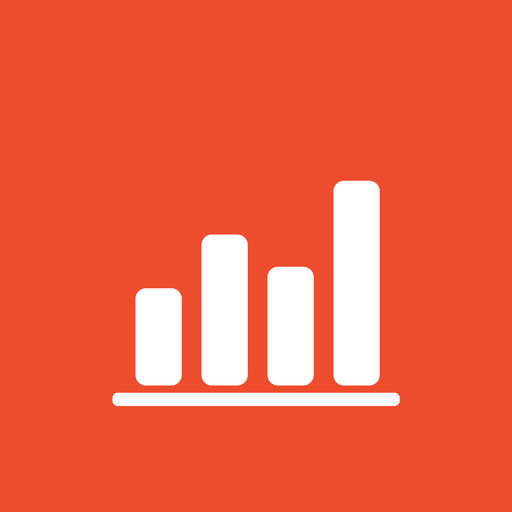
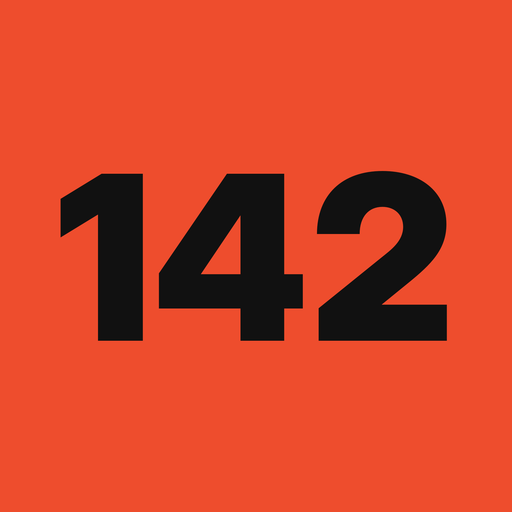
App: ícone 142 (preto no laranja), nome HUB 142 e instalação antes de abrir o painel
Claude-Session: https://claude.ai/code/session_01382THvYi57VtiBKe1yBtGY

Changed region(s): [[0.0938, 0.3125, 0.875, 0.8125]]

diff --git a/app/index.html b/app/index.html
@@ -3,11 +3,11 @@
 <head>
 <meta charset="utf-8">
 <meta name="viewport" content="width=device-width, initial-scale=1, viewport-fit=cover">
-<title>Painel HUB</title>
+<title>HUB 142</title>
 <meta name="theme-color" content="#111318">
 <meta name="apple-mobile-web-app-capable" content="yes">
 <meta name="mobile-web-app-capable" content="yes">
-<meta name="apple-mobile-web-app-title" content="Painel HUB">
+<meta name="apple-mobile-web-app-title" content="HUB 142">
 <meta name="apple-mobile-web-app-status-bar-style" content="black-translucent">
 <link rel="manifest" href="manifest.webmanifest">
 <link rel="apple-touch-icon" href="apple-touch-icon.png">
@@ -42,7 +42,7 @@
 
 <div id="tela">
   <div class="box">
-    <div class="logo"><img src="apple-touch-icon.png" alt=""><div><h1>Painel HUB</h1><div class="sub">Equipe &amp; Gestão · aplicativo</div></div></div>
+    <div class="logo"><img src="apple-touch-icon.png" alt=""><div><h1>HUB 142</h1><div class="sub">Equipe &amp; Gestão · aplicativo</div></div></div>
     <div id="passoLink">
       <p>Cole o <b>link do painel</b> (o link <b>/exec</b> da implantação do Apps Script). Ele fica guardado só neste aparelho.</p>
       <label for="link">Link do painel</label>
@@ -53,7 +53,7 @@
     <div id="passoInstalar" hidden>
       <p class="ok">✓ Link guardado.</p>
       <p id="dica"></p>
-      <button class="pri" id="continuar">Abrir o painel agora</button>
+      <button class="sec" id="continuar">Só abrir o painel (sem instalar)</button>
     </div>
     <button class="sec" id="trocar" hidden>Trocar o link</button>
     <button class="sec" id="fora" hidden>Abrir no navegador</button>
@@ -91,7 +91,8 @@
   var q = new URLSearchParams(location.search);
   if (q.get('u') && valido(q.get('u'))) guardar(CHAVE, q.get('u').trim());
   if (q.has('config')) { telaLink(); }
-  else if (ler(CHAVE)) { abrir(ler(CHAVE)); }
+  else if (ler(CHAVE) && instalado) { abrir(ler(CHAVE)); }
+  else if (ler(CHAVE)) { telaInstalar(); } // no Safari/Chrome (ainda não instalado): mostra como instalar, sem sair desta página
   else { telaLink(); }
 
   $('salvar').onclick = function () {
@@ -99,12 +100,17 @@
     if (!valido(u)) { $('erro').textContent = 'Esse não parece o link do painel. Ele começa com https://script.google.com/ e termina em /exec.'; return; }
     guardar(CHAVE, u);
     if (instalado) { abrir(u); return; }
-    $('passoLink').hidden = true; $('passoInstalar').hidden = false;
-    $('dica').innerHTML = ios
-      ? 'Agora instale no iPhone: toque em <b>Compartilhar</b> (quadrado com seta) › <b>Adicionar à Tela de Início</b> › <b>Adicionar</b>. Depois abra pelo ícone <b>Painel HUB</b>.'
-      : 'Agora instale: no Chrome, toque no menu <b>⋮</b> › <b>Instalar app</b> (ou <b>Adicionar à tela inicial</b>). Depois abra pelo ícone <b>Painel HUB</b>.';
-    history.replaceState(null, '', location.pathname + '?u=' + encodeURIComponent(u));
+    telaInstalar();
   };
+  function telaInstalar() {
+    var u = ler(CHAVE);
+    $('passoLink').hidden = true; $('passoInstalar').hidden = false; $('trocar').hidden = false; $('fora').hidden = true;
+    $('dica').innerHTML = (ios
+      ? 'Agora, <b>ainda nesta tela</b>, toque em <b>Compartilhar</b> (quadrado com seta) › <b>Adicionar à Tela de Início</b> › <b>Adicionar</b>.'
+      : 'Agora, <b>ainda nesta tela</b>, toque no menu <b>⋮</b> › <b>Instalar app</b> (ou <b>Adicionar à tela inicial</b>).')
+      + ' O ícone laranja <b>142</b> aparece na tela inicial; abra o painel sempre por ele.<br><small>Se você adicionar depois de abrir o painel, o ícone sai cinza com "H".</small>';
+    history.replaceState(null, '', location.pathname + '?u=' + encodeURIComponent(u));
+  }
   $('continuar').onclick = function () { abrir(ler(CHAVE)); };
   $('trocar').onclick = function () { telaLink(); };
   $('trocarAbrindo').onclick = function () { clearTimeout(timer); document.body.classList.remove('abrindo'); telaLink(); };

diff --git a/app/sw.js b/app/sw.js
@@ -1,6 +1,6 @@
 /* Service worker mínimo: guarda só a "casca" do app (esta página, ícones e manifesto).
    O painel em si sempre vem ao vivo do Google Apps Script — nada de dados fica guardado aqui. */
-const CACHE = 'painel-hub-v2';
+const CACHE = 'painel-hub-v3';
 const CASCA = ['./', './index.html', './manifest.webmanifest', './icon-192.png', './icon-512.png', './apple-touch-icon.png'];
 self.addEventListener('install', e => { e.waitUntil(caches.open(CACHE).then(c => c.addAll(CASCA)).then(() => self.skipWaiting())); });
 self.addEventListener('activate', e => { e.waitUntil(caches.keys().then(ks => Promise.all(ks.filter(k => k !== CACHE).map(k => caches.delete(k)))).then(() => self.clients.claim())); });
